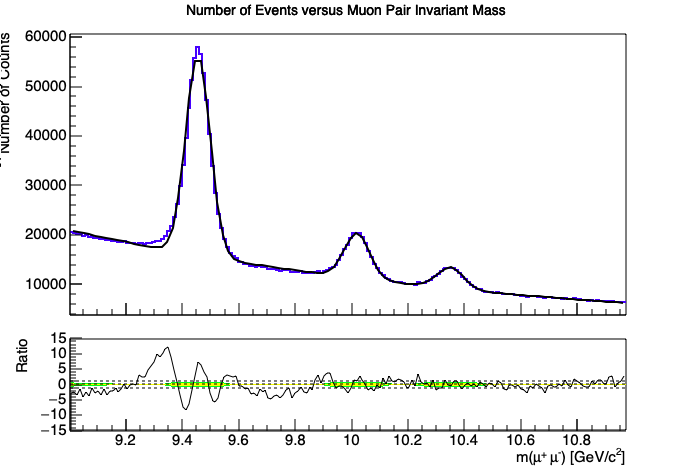
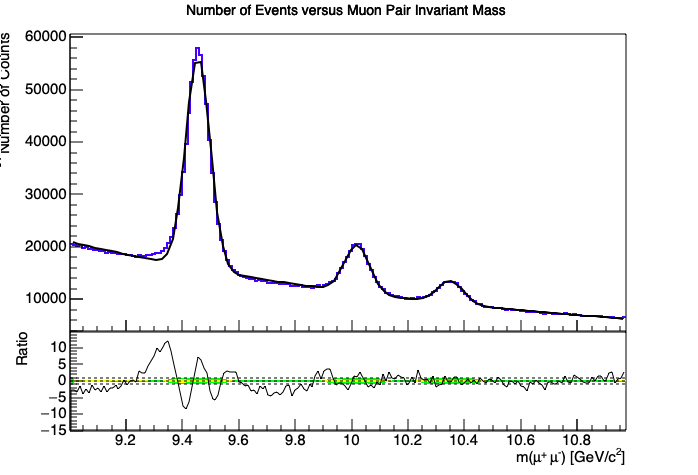
update residuals plot

Changed region(s): [[0.0, 0.1179, 0.9026, 0.8842], [0.0301, 0.1179, 0.1203, 0.4421]]

diff --git a/pyroot_test.py b/pyroot_test.py
@@ -177,6 +177,7 @@ res_gauss.GetUpperRefYaxis().SetTitle("Number of Counts")
 res_gauss.SetConfidenceIntervalColors(ROOT.kBlue, ROOT.kWhite)
 res_gauss.GetLowerRefGraph().SetMinimum(-15)
 res_gauss.GetLowerRefGraph().SetMaximum(15)
+res_gauss.SetSeparationMargin(0.0)
 
 
 canvas.Print ('xmass_hist_gauss.png')
@@ -383,12 +384,6 @@ res_cb.GetLowerRefGraph().SetMinimum(-7)
 res_cb.GetLowerRefGraph().SetMaximum(7)
 res_cb.SetSeparationMargin(0.0)
 
-latex = ROOT.TLatex ()
-latex.SetNDC ()
-latex.SetTextSize (0.06)
-latex.DrawText (0.7 ,0.83 , " HASCO 2018 ")
-latex.SetTextSize (0.04)
-latex.DrawText (0.7 ,0.77 , "Di - muon events ")
 
 canvas.Print ('xmass_hist_cb.png')
 
